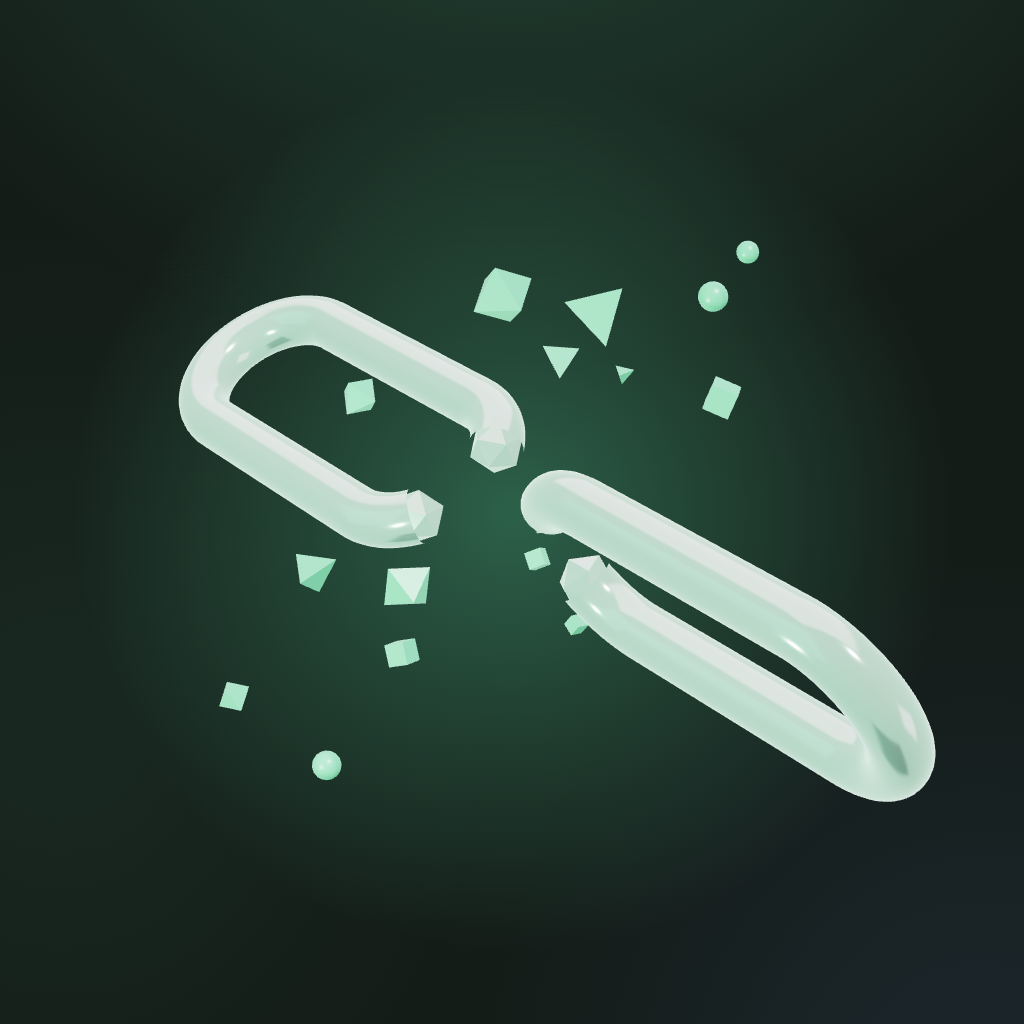
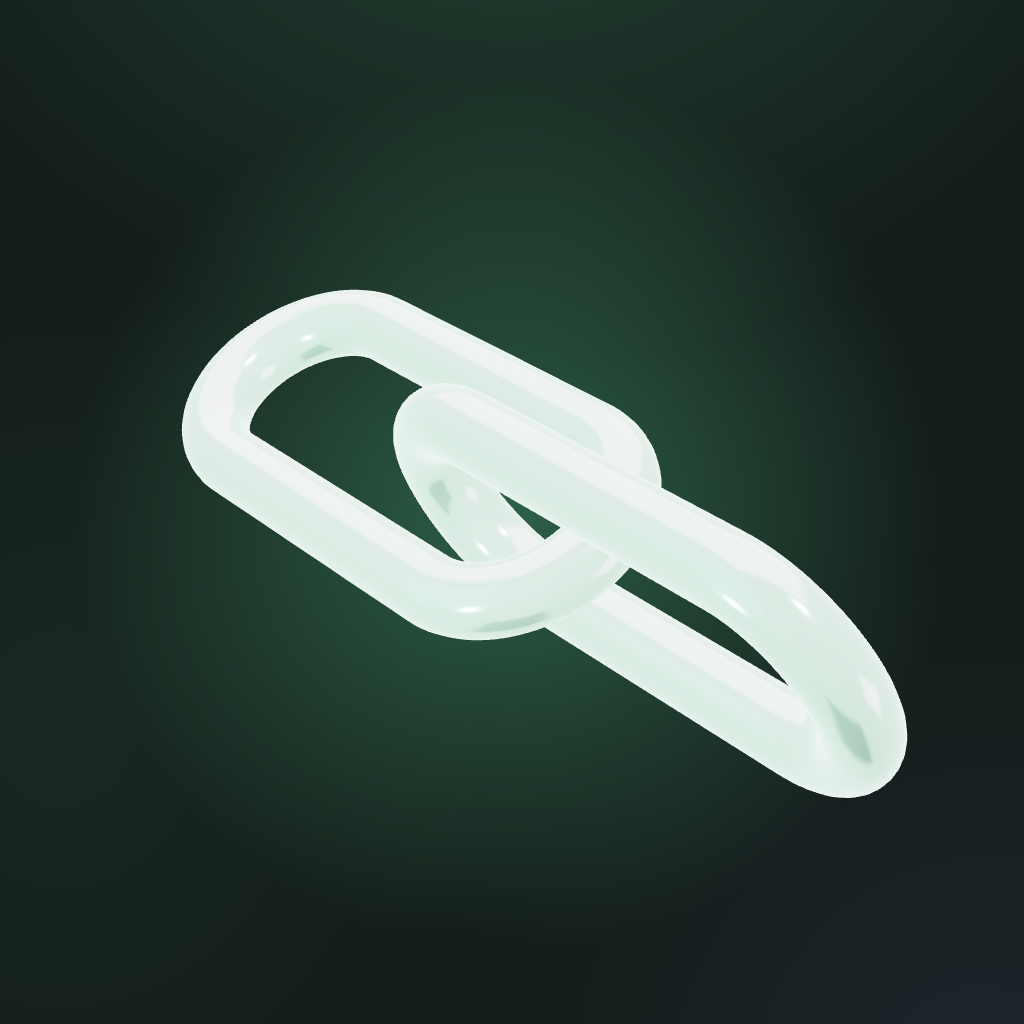
Чийт Код: иконката и знакът в хедъра — цялата верига, по-едра и по-светла
Скъсаната с отломките на 60 точки и на 46 px беше бледо петно с прах.
Сплашът, писмата и споделянето остават скъсани. На светлата тема знакът е
ментовото стъкло — бялото изчезваше. Нова опция exposure в glass-chain.js.

Claude-Session: https://claude.ai/code/session_012Eb7oovoACcJnnwYnUFn4a

diff --git a/cheatcode/brand/mail/glass.html b/cheatcode/brand/mail/glass.html
@@ -63,12 +63,18 @@
   <script src="../../../public/cheatcode/vendor/three-r128.min.js"></script>
   <script src="../../../public/cheatcode/glass-chain.js"></script>
   <script>
-    /* Един кадър, без люлеене: скъсана, в покой. `ready` казва на скрипта,
+    /* Един кадър, без люлеене, в покой. `ready` казва на скрипта,
        че може да снима. */
     window.ready = Promise.all(Array.prototype.map.call(document.querySelectorAll('.ground canvas'), function (c) {
-      var gc = GlassChain(c, { tone: 'dark', still: true, sizeFrom: c, scale: 0.8 });
+      /* Иконката е цялата верига, едра и по-светла: скъсаната с отломките на
+         60 точки ставаше бледо петно с прах около него (16.10). Писмата и
+         споделянето остават скъсани — там има място. */
+      var icon = c.closest('#icon, #mask');
+      var gc = GlassChain(c, icon
+        ? { tone: 'dark', still: true, sizeFrom: c, scale: 1.05, exposure: 1.6 }
+        : { tone: 'dark', still: true, sizeFrom: c, scale: 0.8 });
       if (!gc) throw new Error('без WebGL');
-      gc.pose({ swing: false });
+      gc.pose(icon ? { swing: false, broken: false, burst: 0 } : { swing: false });
       gc.draw(0);
       return document.fonts.ready;
     }));

diff --git a/public/cheatcode/sw.js b/public/cheatcode/sw.js
@@ -1,5 +1,5 @@
 /* Генериран от scripts/build-cheatcode.mjs — не се пипа на ръка. */
-const CACHE = 'cheatcode-c558bce48f86';
+const CACHE = 'cheatcode-da11e5ffa346';
 const PRECACHE = ["/cheatcode/","/cheatcode/manifest.webmanifest","/cheatcode/icon-192.png","/cheatcode/icon-512.png","/cheatcode/icon-maskable-512.png","/cheatcode/apple-icon.png","/cheatcode/favicon.svg","/cheatcode/banan.jpg","/cheatcode/gris-banan.jpg","/cheatcode/gris-biskviti.jpg","/cheatcode/gris-choko.jpg","/cheatcode/gris-oba.jpg","/cheatcode/gris.jpg","/cheatcode/kakao.jpg","/cheatcode/kayma.jpg","/cheatcode/protein.jpg","/cheatcode/yagodi.jpg"];
 
 /* Без skipWaiting при инсталиране: новият чака, докато лентата на

diff --git a/public/cheatcode/glass-chain.js b/public/cheatcode/glass-chain.js
@@ -38,7 +38,8 @@
     renderer.setPixelRatio(Math.min(window.devicePixelRatio || 1, 2));
     renderer.outputEncoding = THREE.sRGBEncoding;
     renderer.toneMapping = THREE.ACESFilmicToneMapping;
-    renderer.toneMappingExposure = dark ? 0.85 : 1.05;
+    // exposure — по-светло за неподвижните картинки (иконката, хедъра).
+    renderer.toneMappingExposure = opts.exposure || (dark ? 0.85 : 1.05);
 
     var scene = new THREE.Scene();
     var camera = new THREE.PerspectiveCamera(28, 1, 0.1, 100);

diff --git a/docs/obsidian/2026-10-16 Чийт Код — цялата верига.md b/docs/obsidian/2026-10-16 Чийт Код — цялата верига.md
@@ -1,0 +1,18 @@
+# Чийт Код — цялата верига в иконката и хедъра
+
+**Какво не харесваше.** Иконката на началния екран и знакът до името в
+хедъра — изпълнението, не самата верига. Скъсаната стъклена верига с
+отломките на 60 точки беше бледо петно с прах около него.
+
+**Какво се смени.** Иконката (apple-icon, icon-192/512, maskable) и
+`head-dark/light.png` са цялата верига, без отломки, ×1.05 и експозиция 1.6
+(нова опция `exposure` в `glass-chain.js`, по подразбиране без промяна). На
+светлата тема — ментовото стъкло на 1.0: бялото изчезваше върху светлата
+земя. Сплашът, писмата и споделянето остават скъсани. Правилото е дописано
+в `cheatcode/brand/RULES.md`.
+
+**Проверено.** Иконката в цял размер, 192 и 60 pt; хедърът в двете теми на
+страницата; тестовете на Чийт Код (10/10). `sw.js` е с нова версия.
+
+**Къде.** Клон `cheatcode-whole-chain`, не е в main. iPhone не сменя иконка
+на вече добавено приложение — трябва да се махне и добави пак.

diff --git a/cheatcode/brand/RULES.md b/cheatcode/brand/RULES.md
@@ -148,7 +148,13 @@
 Неподвижна PNG на прозрачен фон, тон по темата (`head-dark.png`,
 `head-light.png` от `scripts/build-splash.mjs`); на светло — със зелена сянка.
 Това е второто изключение от „под 120 пиксела — плоският": на 46 пиксела
-веригата се чете (гледано в двете теми), отломките стават точици.
+веригата се чете (гледано в двете теми).
+
+**От 16.10 хедърът и иконката са цялата верига, без отломки** — скъсаната
+на 46 px и на 60 точки беше бледо петно с прах наоколо. По-едра (×1.05) и
+по-светла (експозиция 1.6). На светлата тема — също ментовото стъкло, на 1.0:
+бялото върху светлата земя изчезваше. Скъсаната остава за сплаша, писмата и
+споделянето, където има място.
 
 **Тежестта е правило, не подробност.** three.js е 600 KB и на страницата за
 поръчка не се тегли никога. Сплашът е **записан клип** (`splash.mp4`, 31 KB,
